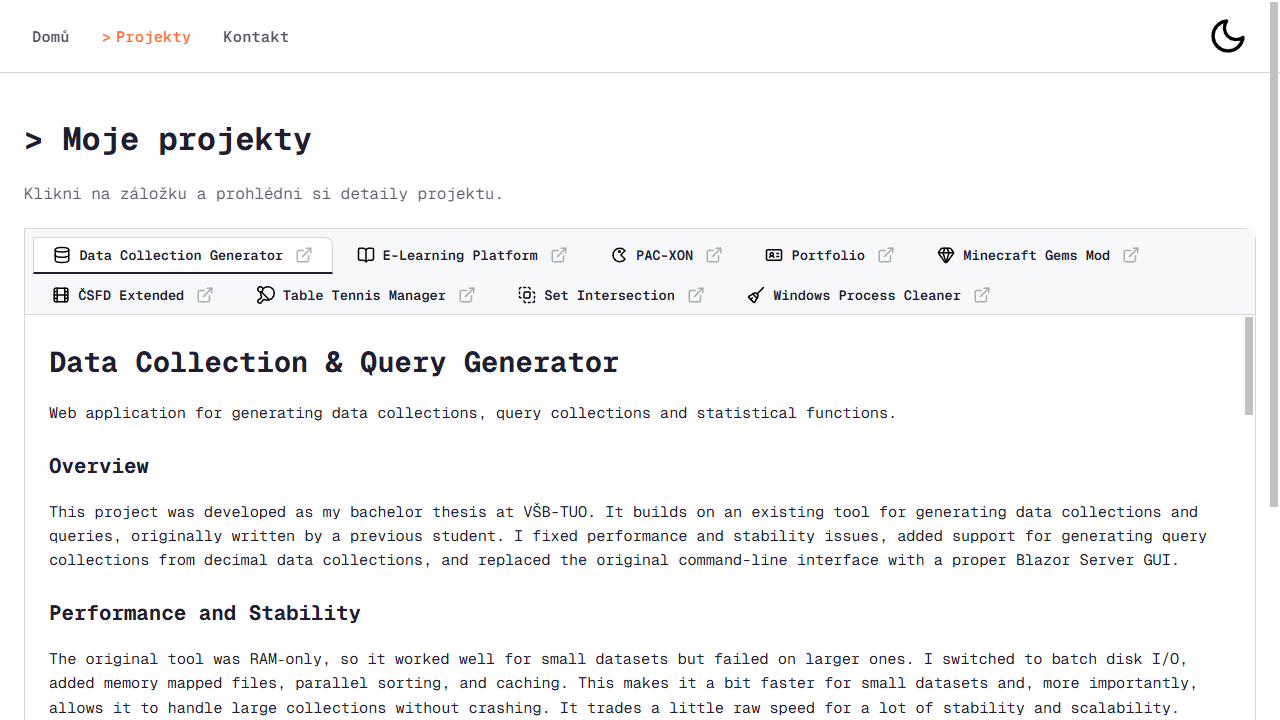
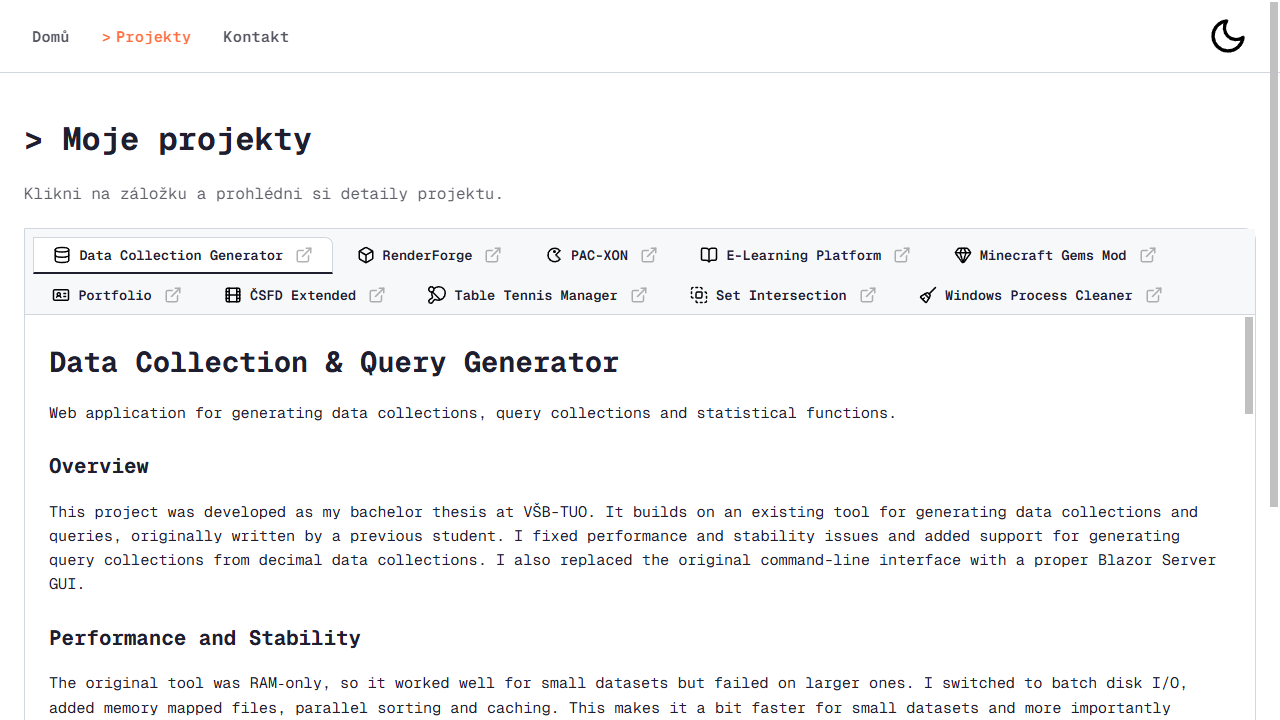
Add new project and fix grammar in READMEs

Changed region(s): [[0.0312, 0.7333, 0.9375, 1.0], [0.0312, 0.3972, 0.9062, 0.4278], [0.2812, 0.3361, 0.9062, 0.3667]]

diff --git a/src/routes/projects/+page.svelte b/src/routes/projects/+page.svelte
@@ -3,18 +3,19 @@
 </svelte:head>
 
 <script lang="ts">
-  import { readmeDataGenRaw, readmeElearningRaw, readmePacXonRaw, readmePortfolioRaw, readmeMcRaw, readmeCsfdRaw, readmeTableTennisRaw, readmeSetIntersectionRaw, readmeWindowsCleanerRaw } from '$lib/assets/readmes';
-  import { DatabaseIcon, BookOpenIcon, PacmanIcon, IdCardIcon, GemIcon, FilmIcon, PingPongIcon, SquaresIntersectIcon, BroomIcon, ExternalLinkIcon } from '$lib/assets/icons';
+  import { readmeDataGenRaw, readmeRenderForgeRaw, readmePacXonRaw, readmeElearningRaw, readmeMcRaw, readmePortfolioRaw, readmeCsfdRaw, readmeTableTennisRaw, readmeSetIntersectionRaw, readmeWindowsCleanerRaw } from '$lib/assets/readmes';
+  import { DatabaseIcon, CubeIcon, PacmanIcon, BookOpenIcon, GemIcon, IdCardIcon, FilmIcon, PingPongIcon, SquaresIntersectIcon, BroomIcon, ExternalLinkIcon } from '$lib/assets/icons';
   import { TabPanelScrollbar } from '$lib/components';
   import { marked } from 'marked';
   import '$lib/styles/projects.css';
 
   let tabs = [
     { label: 'Data Collection Generator', icon: DatabaseIcon, repoUrl: 'https://github.com/mk-forge/data-collection-generator', content: marked(readmeDataGenRaw) },
-    { label: 'E-Learning Platform', icon: BookOpenIcon, repoUrl: 'https://github.com/mk-forge/e-learning-platform', content: marked(readmeElearningRaw) },
+    { label: 'RenderForge', icon: CubeIcon, repoUrl: 'https://github.com/mk-forge/render-forge', content: marked(readmeRenderForgeRaw) },
     { label: 'PAC-XON', icon: PacmanIcon, repoUrl: 'https://github.com/mk-forge/pac-xon', content: marked(readmePacXonRaw) },
-    { label: 'Portfolio', icon: IdCardIcon, repourl: 'https://github.com/mk-forge/portfolio', content: marked(readmePortfolioRaw) },
+    { label: 'E-Learning Platform', icon: BookOpenIcon, repoUrl: 'https://github.com/mk-forge/e-learning-platform', content: marked(readmeElearningRaw) },
     { label: 'Minecraft Gems Mod', icon: GemIcon, repoUrl: 'https://github.com/mk-forge/minecraft-gems-mod', content: marked(readmeMcRaw) },
+    { label: 'Portfolio', icon: IdCardIcon, repourl: 'https://github.com/mk-forge/portfolio', content: marked(readmePortfolioRaw) },
     { label: 'ČSFD Extended', icon: FilmIcon, repoUrl: 'https://github.com/mk-forge/csfd-extended', content: marked(readmeCsfdRaw) },
     { label: 'Table Tennis Manager', icon: PingPongIcon, repoUrl: 'https://github.com/mk-forge/table-tennis-manager', content: marked(readmeTableTennisRaw) },
     { label: 'Set Intersection', icon: SquaresIntersectIcon, repoUrl: 'https://github.com/mk-forge/set-intersection', content: marked(readmeSetIntersectionRaw) },

diff --git a/src/lib/assets/readmes/index.js b/src/lib/assets/readmes/index.js
@@ -1,4 +1,5 @@
 export { default as readmeDataGenRaw } from '$lib/assets/readmes/data-collection-generator.md?raw';
+export { default as readmeRenderForgeRaw } from '$lib/assets/readmes/render-forge.md?raw';
 export { default as readmeElearningRaw } from '$lib/assets/readmes/e-learning-platform.md?raw';
 export { default as readmePacXonRaw } from '$lib/assets/readmes/pac-xon.md?raw';
 export { default as readmePortfolioRaw } from '$lib/assets/readmes/portfolio.md?raw';

diff --git a/src/lib/assets/icons/index.js b/src/lib/assets/icons/index.js
@@ -33,4 +33,5 @@ export { default as PingPongIcon } from './ping-pong.svg';
 export { default as SquaresIntersectIcon } from './squares-intersect.svg';
 export { default as BroomIcon } from './broom.svg';
 export { default as PacmanIcon } from './pacman.svg';
+export { default as CubeIcon } from './cube.svg';
 export { default as ExternalLinkIcon } from './external-link.svg';

diff --git a/src/lib/assets/readmes/render-forge.md b/src/lib/assets/readmes/render-forge.md
@@ -1,0 +1,62 @@
+# RenderForge
+
+A C++ OpenGL renderer with three demo scenes, multiple shading models, light types and day/night skyboxes.
+
+## Overview
+
+RenderForge is a custom C++ OpenGL renderer I built as a project for my computer graphics course at university. Models load through Assimp. You can switch between four shading models (constant, Lambert, Phong, Blinn) and three light types (directional, point, spot).
+
+## Tech stack
+
+- **Languages:** C++, GLSL
+- **API:** OpenGL
+- **Libraries:** GLFW, GLEW, GLM, Assimp, SOIL, stb_image
+- **Linter:** SonarQube
+
+## Features
+
+- Four shading models: constant, Lambert, Phong, Blinn
+- Three light types: directional, point, spot (spotlight follows the camera)
+- Moving fireflies with point lights
+- Cubemap skybox with day/night switching per scene
+- Model loading via Assimp with vertex position, normal, UV and tangent data
+- Texture loading for grass, house, zombie, planets and the skybox
+- Transformation system with composable translation, rotation, scale and dynamic rotation
+- Observer pattern for camera updates
+- Random placement of trees, bushes and zombies
+
+## Scenes
+
+- **Forest** - house, trees, bushes, wooden fence, grass, five zombies, three fireflies
+- **Spheres** - four spheres, each rendered with a different shader
+- **Planets** - Sun, Earth and Moon orbiting with a space skybox
+
+## Controls
+
+- `W`, `A`, `S`, `D` - move forward, left, back, right
+- `F`, `B` - move up and down
+- Left mouse button - look around
+- `0`, `1`, `2` - switch scenes
+- `Esc` - quit
+
+## Screenshots
+
+![Forest scene](/screenshots/render-forge/forest.png)
+![Spotlight effect](/screenshots/render-forge/spotlight.png)
+![Spheres scene](/screenshots/render-forge/spheres.png)
+![Planets scene](/screenshots/render-forge/planets.png)
+
+## Installation
+
+1. Download the latest `RenderForge.zip` from [Releases](https://github.com/mk-forge/render-forge/releases).
+2. Extract the ZIP.
+3. Run `RenderForge.exe`.
+
+## Building from source
+
+Open `RenderForge.sln` in Visual Studio and build the project. Required libraries are included in the `libs/` folder.
+
+## Credits
+
+- [The Blender Cubemap Skybox Pack](https://drive.google.com/file/d/1V0KlEOLKjjEUAlfCeCxpo-6d4A6tWrdy/view?usp=sharing) by ZGnosis. Free for non-commercial use with attribution.
+- [Lowpoly Firefly model](https://skfb.ly/pzZAB) by Caledhril. Licensed under [Creative Commons Attribution](http://creativecommons.org/licenses/by/4.0/).

diff --git a/src/lib/assets/readmes/data-collection-generator.md b/src/lib/assets/readmes/data-collection-generator.md
@@ -4,11 +4,11 @@ Web application for generating data collections, query collections and statistic
 
 ## Overview
 
-This project was developed as my bachelor thesis at VŠB-TUO. It builds on an existing tool for generating data collections and queries, originally written by a previous student. I fixed performance and stability issues, added support for generating query collections from decimal data collections, and replaced the original command-line interface with a proper Blazor Server GUI.
+This project was developed as my bachelor thesis at VŠB-TUO. It builds on an existing tool for generating data collections and queries, originally written by a previous student. I fixed performance and stability issues and added support for generating query collections from decimal data collections. I also replaced the original command-line interface with a proper Blazor Server GUI.
 
 ## Performance and Stability
 
-The original tool was RAM‑only, so it worked well for small datasets but failed on larger ones. I switched to batch disk I/O, added memory mapped files, parallel sorting, and caching. This makes it a bit faster for small datasets and, more importantly, allows it to handle large collections without crashing. It trades a little raw speed for a lot of stability and scalability.
+The original tool was RAM‑only, so it worked well for small datasets but failed on larger ones. I switched to batch disk I/O, added memory mapped files, parallel sorting and caching. This makes it a bit faster for small datasets and more importantly allows it to handle large collections without crashing. It trades a little raw speed for a lot of stability and scalability.
 
 ## Tech stack
 

diff --git a/src/lib/assets/readmes/e-learning-platform.md b/src/lib/assets/readmes/e-learning-platform.md
@@ -4,11 +4,11 @@ Web application for online education, built with five other students as a team p
 
 ## My role
 
-I worked on the frontend part of the course management. Specifically, the Courses page, course enrollment and unenrollment, and adding images to courses. I also contributed to the profile page where enrolled courses are displayed.
+I worked on the frontend part of the course management. Specifically, the Courses page, course enrollment and unenrollment, along with adding images to courses. I also contributed to the profile page where enrolled courses are displayed.
 
 ## User roles
 
-Students enroll in courses, complete assignments, take tests, and track their progress. Teachers create courses, upload materials, and grade students. Administrators approve teachers and oversee the platform as a whole.
+Students enroll in courses, complete assignments, take tests and track their progress. Teachers create courses, upload materials and grade students. Administrators approve teachers and oversee the platform as a whole.
 
 ## Features
 
@@ -29,7 +29,7 @@ Students enroll in courses, complete assignments, take tests, and track their pr
 
 ## Development process
 
-We used two-week sprints, feature branches with pull requests, and kept documentation in the repository.
+We used two-week sprints, feature branches with pull requests and kept documentation in the repository.
 
 ## Installation
 

diff --git a/src/lib/assets/readmes/minecraft-gems-mod.md b/src/lib/assets/readmes/minecraft-gems-mod.md
@@ -1,10 +1,10 @@
 # Minecraft Gems Mod
 
-Minecraft 1.12.2 mod that adds new ores, tools, and crafting recipes.
+Minecraft 1.12.2 mod that adds new ores, tools and crafting recipes.
 
 ## Overview
 
-Every gem comes with full world generation, crafting recipes, and both English and Czech localization. Tools and armor are slightly stronger than diamond, and ores spawn in the Overworld between Y levels 5 and 30, at a rarity comparable to diamond, three veins per chunk, four blocks per vein.
+The mod adds several new gem types, each with its own ore, tools, armor and crafting recipes. Every gem comes with full world generation and both English and Czech localization. Tools and armor are slightly stronger than diamond. Ores spawn in the Overworld between Y levels 5 and 30, at a rarity comparable to diamond, three veins per chunk, four blocks per vein.
 
 ## Tech stack
 
@@ -34,4 +34,4 @@ The compiled `.jar` ends up in `build/libs/`.
 
 ## Credits
 
-Textures for gems, tools, and armor are based on assets from the [GemsPlusPlus](https://modrinth.com/mod/gemsplusplus) mod, licensed under [LGPL-3.0-only](https://www.gnu.org/licenses/lgpl-3.0.html).
+Textures for gems, tools and armor are based on assets from the [GemsPlusPlus](https://modrinth.com/mod/gemsplusplus) mod, licensed under [LGPL-3.0-only](https://www.gnu.org/licenses/lgpl-3.0.html).

diff --git a/README.md b/README.md
@@ -4,7 +4,7 @@ Personal website and developer portfolio built with SvelteKit.
 
 ## Overview
 
-I built this as my main developer portfolio, mainly to have a solid place to link from my CV and GitHub. Beyond just listing projects, I wanted the site itself to say something about how I write code, so I put extra care into details like the custom scrollbar behavior, the terminal-style heading hover effect, and the asymmetric border radius used consistently across cards and inputs.
+I built this as my main developer portfolio, mainly to have a solid place to link from my CV and GitHub. Beyond just listing projects, I wanted the site itself to say something about how I write code, so I put extra care into details like the custom scrollbar behavior, the terminal-style heading hover effect and the asymmetric border radius used consistently across cards and inputs.
 
 ## Features
 

diff --git a/src/lib/assets/readmes/portfolio.md b/src/lib/assets/readmes/portfolio.md
@@ -4,7 +4,7 @@ Personal website and developer portfolio built with SvelteKit.
 
 ## Overview
 
-I built this as my main developer portfolio, mainly to have a solid place to link from my CV and GitHub. Beyond just listing projects, I wanted the site itself to say something about how I write code, so I put extra care into details like the custom scrollbar behavior, the terminal-style heading hover effect, and the asymmetric border radius used consistently across cards and inputs.
+I built this as my main developer portfolio, mainly to have a solid place to link from my CV and GitHub. Beyond just listing projects, I wanted the site itself to say something about how I write code, so I put extra care into details like the custom scrollbar behavior, the terminal-style heading hover effect and the asymmetric border radius used consistently across cards and inputs.
 
 ## Features
 

diff --git a/src/lib/assets/readmes/table-tennis-manager.md b/src/lib/assets/readmes/table-tennis-manager.md
@@ -4,11 +4,11 @@ Full-stack application for managing table tennis players and matches.
 
 ## Overview
 
-This project was developed as a school assignment. Lets you manage players, track their matches, and store results in a SQLite database. React frontend, Express backend, Prisma as the ORM layer.
+This project was developed as a school assignment. Lets you manage players, track their matches and store results in a SQLite database. React frontend, Express backend, Prisma as the ORM layer.
 
 ## Features
 
-- Create, read, update, and delete players
+- Create, read, update and delete players
 - Add matches to a player (date and time, score, opponent)
 - View player details and match history
 

diff --git a/src/lib/assets/readmes/csfd-extended.md b/src/lib/assets/readmes/csfd-extended.md
@@ -8,9 +8,9 @@ Tampermonkey script that extends ČSFD title pages with additional useful inform
 
 ## Features
 
-- IMDb plot with a short/full toggle, and automatic expansion of shortened plots
+- IMDb plot with a short/full toggle and automatic expansion of shortened plots
 - MPAA rating
-- IMDb, Rotten Tomatoes, and Metascore ratings
+- IMDb, Rotten Tomatoes and Metascore ratings
 - Quick links updated (Trailer, DabingForum, Reel Scary for horror films)
 - OMDb API response caching
 - Automatic expansion of shortened plots

diff --git a/src/lib/assets/readmes/pac-xon.md b/src/lib/assets/readmes/pac-xon.md
@@ -4,7 +4,7 @@ Classic PAC-XON game implemented in JavaFX.
 
 ## Overview
 
-PAC-XON is a reimplementation of the classic arcade game where you control Pacman, draw paths, and claim territory while avoiding ghosts. The game combines maze navigation with territory control mechanics.
+PAC-XON is a reimplementation of the classic arcade game where you control Pacman, draw paths and claim territory while avoiding ghosts. The game combines maze navigation with territory control mechanics.
 
 ## Tech stack
 
